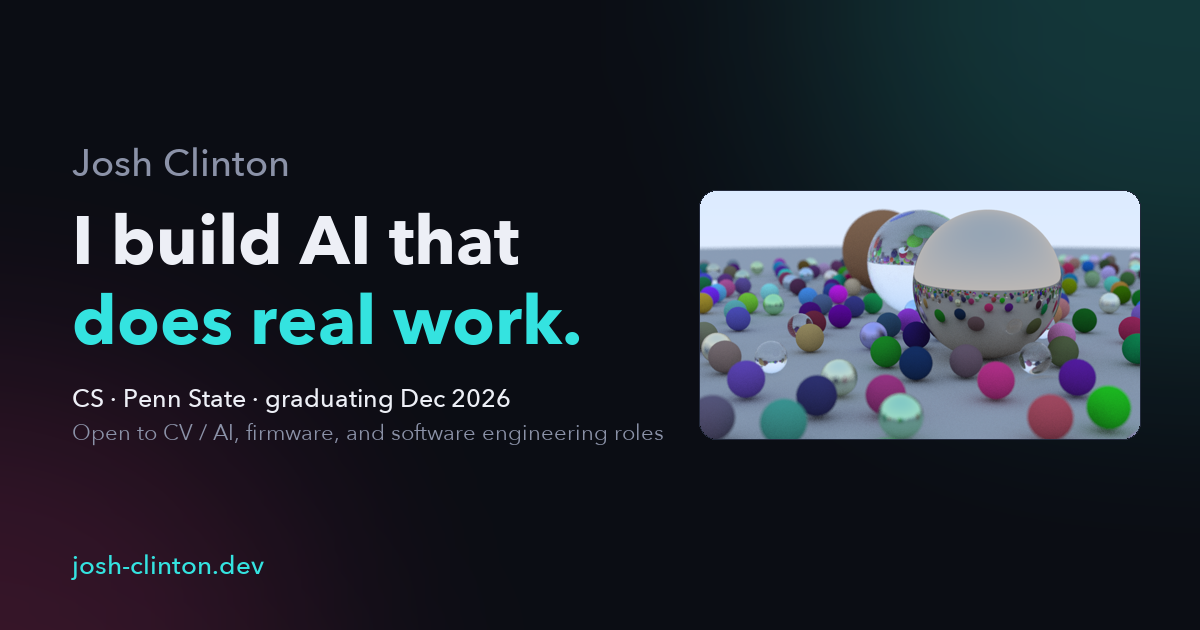
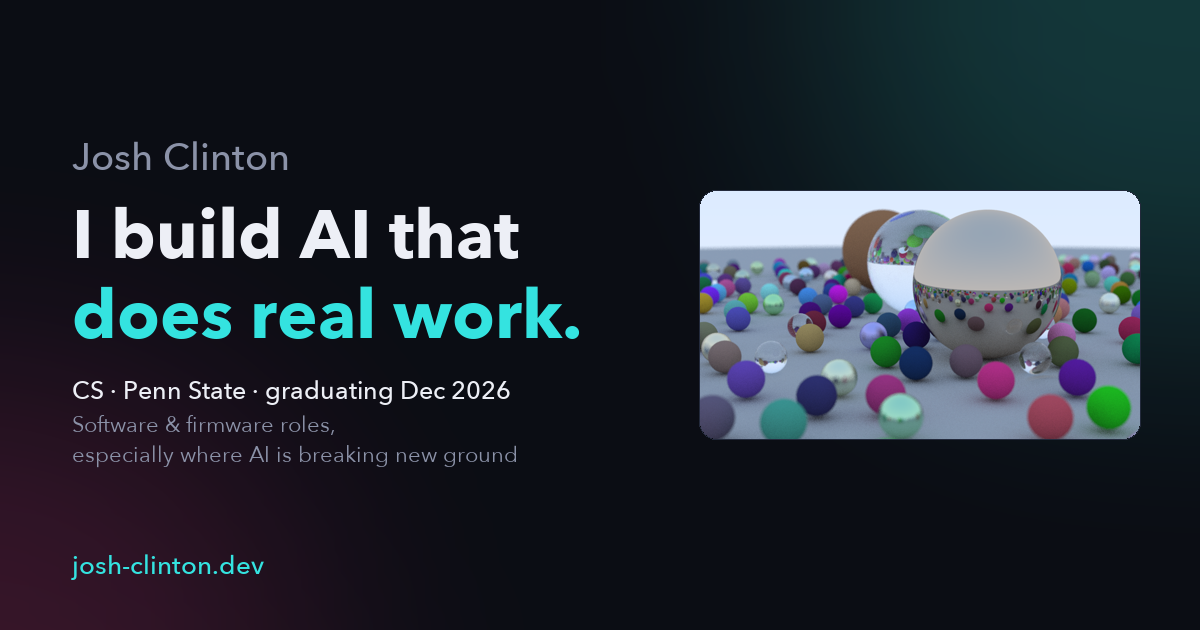
Reframe the ask: software and firmware roles, especially at the AI frontier
The previous commit still ranked computer vision and AI as "first choice"
with firmware and software engineering as the fallback. That is not the
pitch. Now every spot that says what he's looking for reads the same way:
software and firmware engineering roles, especially anywhere AI is
breaking new ground.

- contact section
- "Can I hire you?" and "What roles are you looking for?" chat answers;
  the roles answer now lists computer vision, applied ML, and embedded
  systems that run a model as examples of that frontier rather than as
  the whole target
- og:description / twitter:description
- og.png sub-line, wrapped to two lines at the original 22px rather than
  shrunk to fit on one, since LinkedIn scales the card down in the feed

diff --git a/index.html b/index.html
@@ -12,14 +12,14 @@
 <meta property="og:type" content="website" />
 <meta property="og:url" content="https://josh-clinton.dev/" />
 <meta property="og:title" content="Josh Clinton — I build AI that does real work" />
-<meta property="og:description" content="CS student at Penn State, graduating December 2026, looking for computer vision, AI, firmware, or software engineering roles. Work so far: a patent-pending medical inspection system, a from-scratch path tracer, and a car that teaches itself to drive." />
+<meta property="og:description" content="CS student at Penn State, graduating December 2026, looking for software and firmware engineering roles, especially where AI is breaking new ground. Work so far: a patent-pending medical inspection system, a from-scratch path tracer, and a car that teaches itself to drive." />
 <meta property="og:image" content="https://josh-clinton.dev/og.png" />
 <meta property="og:image:width" content="1200" />
 <meta property="og:image:height" content="630" />
 <meta property="og:image:alt" content="Josh Clinton — I build AI that does real work" />
 <meta name="twitter:card" content="summary_large_image" />
 <meta name="twitter:title" content="Josh Clinton — I build AI that does real work" />
-<meta name="twitter:description" content="CS student at Penn State, graduating December 2026, looking for computer vision, AI, firmware, or software engineering roles. Work so far: a patent-pending medical inspection system, a from-scratch path tracer, and a car that teaches itself to drive." />
+<meta name="twitter:description" content="CS student at Penn State, graduating December 2026, looking for software and firmware engineering roles, especially where AI is breaking new ground. Work so far: a patent-pending medical inspection system, a from-scratch path tracer, and a car that teaches itself to drive." />
 <meta name="twitter:image" content="https://josh-clinton.dev/og.png" />
 <link rel="preconnect" href="https://fonts.googleapis.com">
 <link rel="preconnect" href="https://fonts.gstatic.com" crossorigin>
@@ -649,7 +649,7 @@
   <!-- CONTACT -->
   <section class="section contact" id="contact">
     <h2 class="reveal">Let's build something<br><em>that matters</em></h2>
-    <p class="reveal">I'm graduating December 2026. Computer vision and AI roles are what I'm after first, but I'm just as happy in firmware, embedded, or general software engineering. Or just reach out to talk shop. I'm always up for it.</p>
+    <p class="reveal">I'm graduating December 2026 and looking for software and firmware engineering roles, especially anywhere AI is breaking new ground. Or just reach out to talk shop. I'm always up for it.</p>
     <div class="links reveal">
       <a class="btn primary" href="mailto:clintonjoshua22@gmail.com"><svg class="ico" viewBox="0 0 24 24" fill="none" stroke="currentColor" stroke-width="1.9" stroke-linecap="round" stroke-linejoin="round"><rect x="3" y="5" width="18" height="14" rx="2"/><path d="m3 7 9 6 9-6"/></svg>Email me</a>
       <a class="btn" href="https://www.linkedin.com/in/josh-clinton-cs" target="_blank" rel="noopener"><svg class="ico" viewBox="0 0 24 24" fill="currentColor"><path d="M4.98 3.5a2.5 2.5 0 1 1 0 5 2.5 2.5 0 0 1 0-5ZM3 9h4v12H3zM9 9h3.8v1.7h.05c.53-1 1.83-2.05 3.77-2.05 4.03 0 4.78 2.65 4.78 6.1V21h-4v-5.4c0-1.29-.02-2.95-1.8-2.95-1.8 0-2.07 1.4-2.07 2.85V21H9z"/></svg>LinkedIn</a>
@@ -1063,7 +1063,7 @@
       "Just as into training my own brain as training a neural network."
     ],next:["stuck","learn_how","now"]},
     hire:{chip:"Can I hire you?",a:[
-      "Absolutely. I graduate December 2026. Computer vision and AI roles are my first choice, but I'm open to firmware, embedded, and software engineering work too. My email's right below."
+      "Absolutely. I graduate December 2026 and I'm looking for software and firmware roles, especially anywhere AI is breaking new ground. My email's right below."
     ],next:["roles","when","proudest"]},
 
     /* — B. Braun branch — */
@@ -1092,8 +1092,8 @@
 
     /* — hiring — */
     roles:{chip:"What roles?",say:"What roles are you looking for?",a:[
-      "Anywhere a model has to survive contact with reality: computer vision, applied ML, ML engineering. The title matters less to me than whether the thing ships to someone who depends on it.",
-      "I'm just as open to firmware, embedded, and general software engineering. Northrop gave me a taste of low-level work and I liked it more than I expected."
+      "Software and firmware roles, especially anywhere AI is breaking new ground: computer vision, applied ML, embedded systems that run a model. The title matters less to me than whether the thing ships to someone who depends on it.",
+      "Northrop gave me a taste of low-level work and I liked it more than I expected, so firmware and embedded are very much on the list."
     ],next:["when","proudest","now"]},
     when:{chip:"When are you free?",a:[
       "December 2026 grad, full-time after that. Happy to talk well before then, so feel free to reach out anytime."
